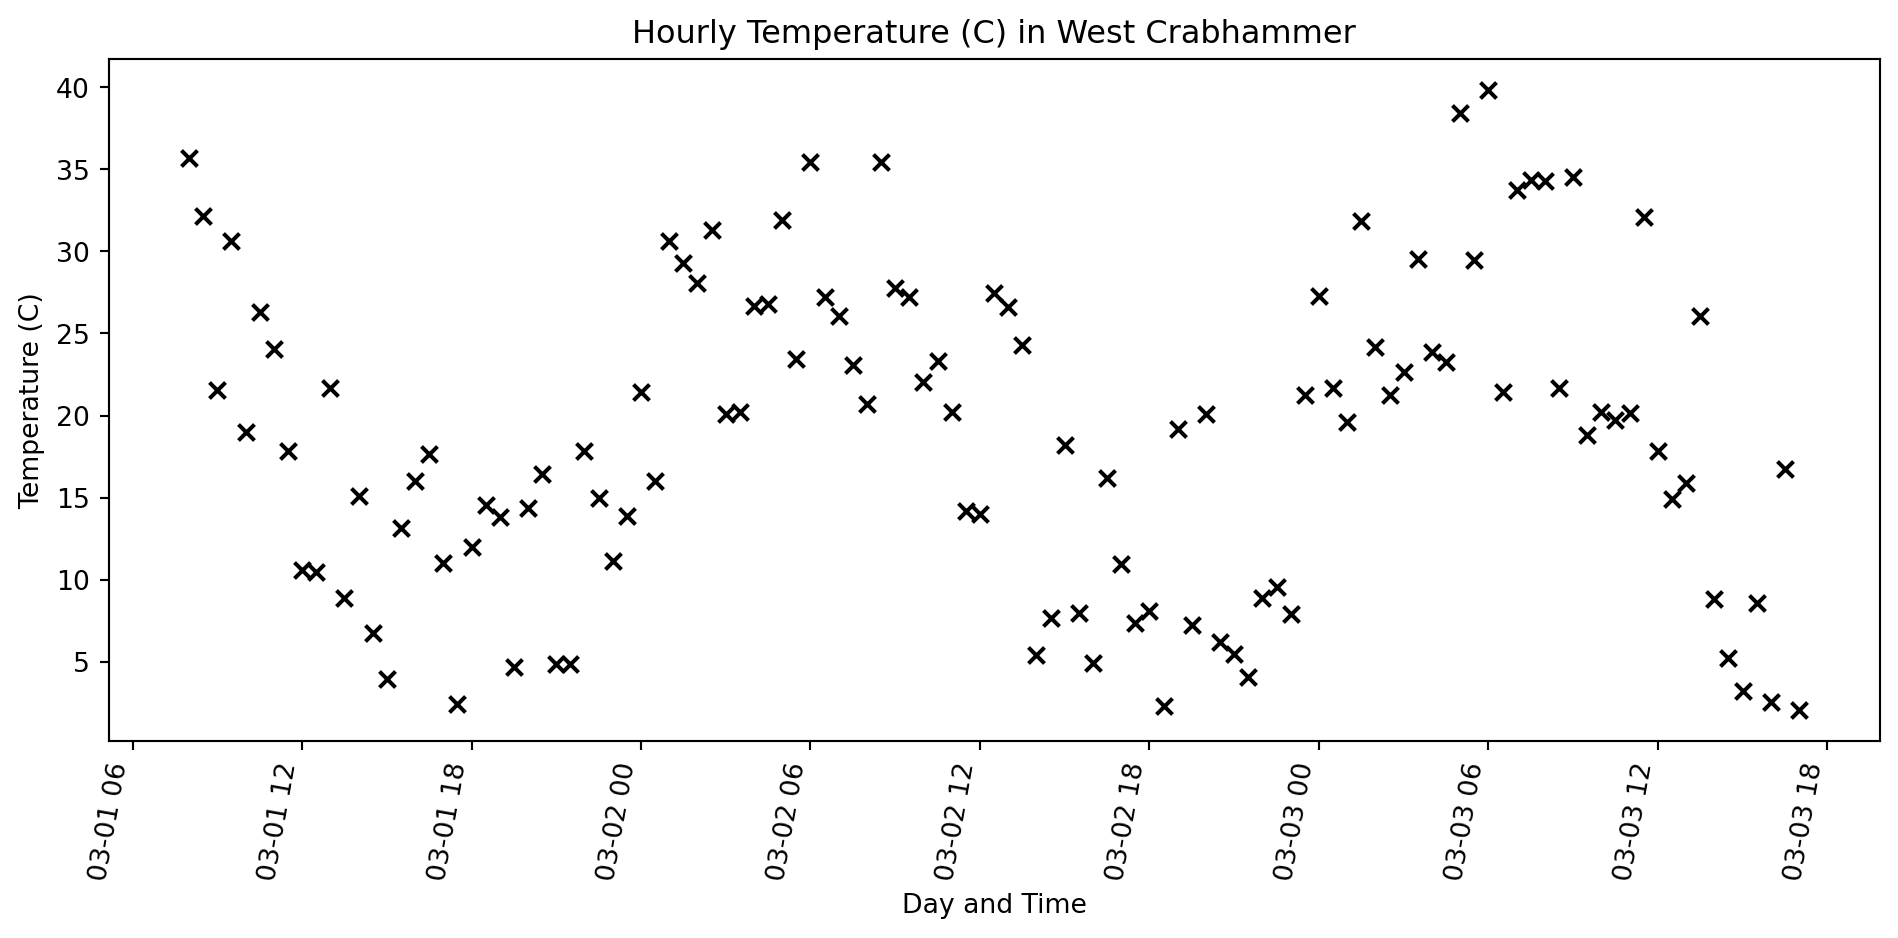
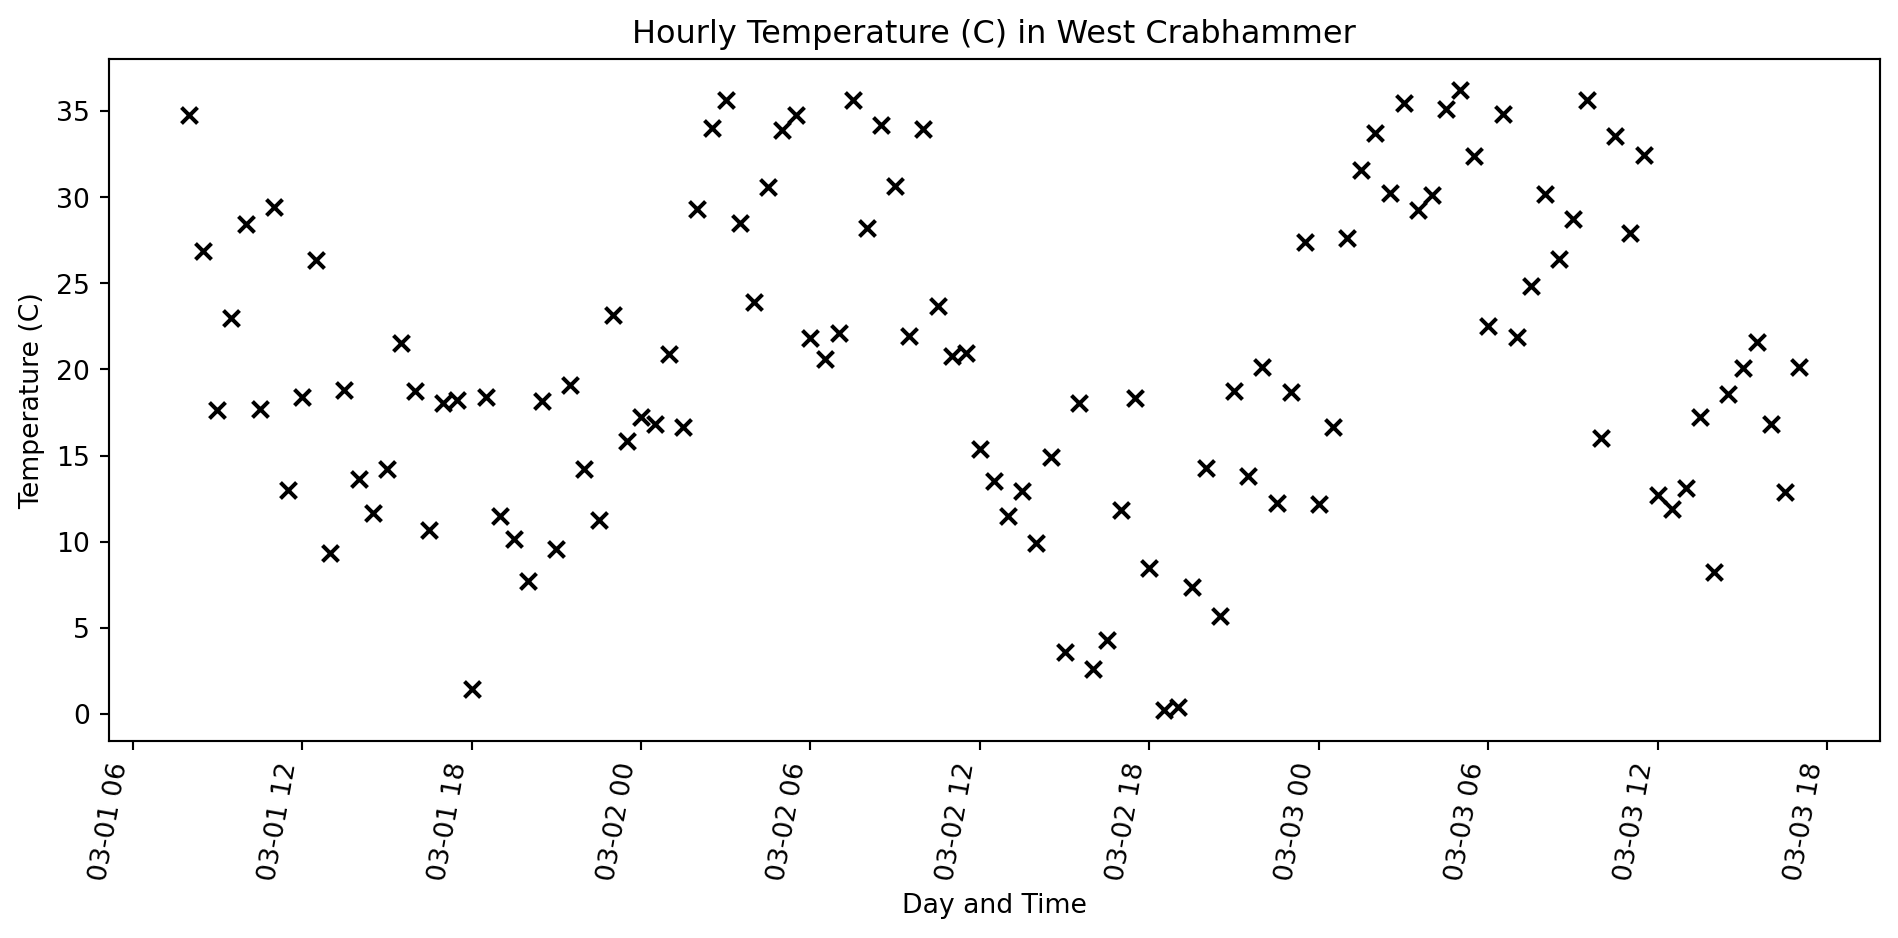
back to reveal

diff --git a/docs/python_geospatial_basics.html b/docs/python_geospatial_basics.html
@@ -204,17 +204,17 @@
 <section id="introducing-python" class="title-slide slide level1 center">
 <h1>Introducing Python</h1>
 <ul>
-<li class="fragment">It allows for more flexibility than a GUI based GIS program.</li>
-<li class="fragment">Other GIS applications (e.g.&nbsp;QGIS, ArcGIS, postGIS) often have a Python interface.</li>
-<li class="fragment">generally a widely used language.</li>
+<li>It allows for more flexibility than a GUI based GIS program.</li>
+<li>Other GIS applications (e.g.&nbsp;QGIS, ArcGIS, postGIS) often have a Python interface.</li>
+<li>generally a widely used language.</li>
 </ul>
 </section>
 <section id="environment" class="slide level2 scrollable smaller non-incremental">
 <h2>Environment</h2>
 <p>Before we get started we need to set up a Python environment in which to work. We will be using Anaconda for this. It <em>should</em> already be installed on the lab computers. If you are using your own computer</p>
 <ul>
-<li class="fragment">Download the environment.yml</li>
-<li class="fragment">If you are working on a lab computer In the start menu search for Anaconda. Open an Anaconda Powershell. (on linux or mac with Anconda or miniconda or Mamba installed just open a terminal)(If you are installing on your own computer I recommend <a href="https://mamba.readthedocs.io/en/latest/installation/mamba-installation.html">Mamba</a>)</li>
+<li>Download the environment.yml</li>
+<li>If you are working on a lab computer In the start menu search for Anaconda. Open an Anaconda Powershell. (on linux or mac with Anconda or miniconda or Mamba installed just open a terminal)(If you are installing on your own computer I recommend <a href="https://mamba.readthedocs.io/en/latest/installation/mamba-installation.html">Mamba</a>)</li>
 </ul>
 <div class="sourceCode" id="cb1"><pre class="sourceCode numberSource {bash} number-lines code-with-copy"><code class="sourceCode"><span id="cb1-1"><a></a>cd ~</span>
 <span id="cb1-2"><a></a>mkdir geog441</span>
@@ -293,7 +293,7 @@
 <section id="basic-numbers" class="slide level2">
 <h2>Basic Numbers</h2>
 <p>Floats and Ints don’t do anything all that surprising</p>
-<div id="768231c3" class="cell columns column-output-location" data-execution_count="1">
+<div id="cbb643d2" class="cell columns column-output-location" data-execution_count="1">
 <div class="column">
 <div class="sourceCode cell-code" id="cb5"><pre class="sourceCode numberSource python number-lines code-with-copy"><code class="sourceCode python"><span id="cb5-1"><a></a>a <span class="op">=</span> <span class="dv">2</span> <span class="op">+</span> <span class="dv">2</span></span>
 <span id="cb5-2"><a></a>b <span class="op">=</span> <span class="fl">2.0</span> <span class="op">+</span> <span class="fl">2.0</span></span>
@@ -322,7 +322,7 @@ and 5 % 4 is 1</code></pre>
 <section id="sequences" class="slide level2">
 <h2>Sequences</h2>
 <p>Lists, tuples, and strings ae all sequences</p>
-<div id="444089a6" class="cell columns column-output-location" data-execution_count="2">
+<div id="1bc02e4a" class="cell columns column-output-location" data-execution_count="2">
 <div class="column">
 <div class="sourceCode cell-code" id="cb7"><pre class="sourceCode numberSource python number-lines code-with-copy"><code class="sourceCode python"><span id="cb7-1"><a></a><span class="co"># a list</span></span>
 <span id="cb7-2"><a></a>a_list <span class="op">=</span> [<span class="dv">1</span>, <span class="dv">2</span>, <span class="dv">3</span>, <span class="dv">4</span>, <span class="dv">5</span>, <span class="dv">6</span>, <span class="dv">7</span>, <span class="dv">8</span>, <span class="dv">9</span>]</span>
@@ -367,7 +367,7 @@ neushorn?</code></pre>
 <a href="https://labex.io/tutorials/python-how-to-manipulate-list-sequences-in-python-419858">Sequences tutorial</a><br>
 <a href="https://www.youtube.com/watch?v=n3KMrwmq_94">Sequence tutorial as video</a></p>
 <p>The key difference is that tuples are immutable.</p>
-<div id="62340def" class="cell columns column-output-location" data-execution_count="3">
+<div id="4298bce9" class="cell columns column-output-location" data-execution_count="3">
 <div class="column">
 <div class="sourceCode cell-code" id="cb9"><pre class="sourceCode numberSource python number-lines code-with-copy"><code class="sourceCode python"><span id="cb9-1"><a></a>a_list[<span class="dv">1</span>] <span class="op">=</span> <span class="dv">256</span></span>
 <span id="cb9-2"><a></a></span>
@@ -388,7 +388,7 @@ Cell <span class="ansi-green-fg">In[3], line 3</span>
 </section>
 <section id="dictionaries" class="slide level2">
 <h2>Dictionaries</h2>
-<div id="594b269a" class="cell columns column-output-location" data-execution_count="4">
+<div id="dc8e848a" class="cell columns column-output-location" data-execution_count="4">
 <div class="column">
 <div class="sourceCode cell-code" id="cb10"><pre class="sourceCode numberSource python number-lines code-with-copy"><code class="sourceCode python"><span id="cb10-1"><a></a>pets <span class="op">=</span> {<span class="st">'honden'</span>: <span class="dv">26</span>, <span class="st">'katten'</span>: <span class="dv">100</span>}</span>
 <span id="cb10-2"><a></a></span>
@@ -407,7 +407,7 @@ Cell <span class="ansi-green-fg">In[3], line 3</span>
 </section>
 <section id="iterating" class="slide level2">
 <h2>Iterating</h2>
-<div id="ebda9f4b" class="cell columns column-output-location" data-execution_count="5">
+<div id="772af0ed" class="cell columns column-output-location" data-execution_count="5">
 <div class="column">
 <div class="sourceCode cell-code" id="cb12"><pre class="sourceCode numberSource python number-lines code-with-copy"><code class="sourceCode python"><span id="cb12-1"><a></a>a <span class="op">=</span> [<span class="dv">1</span>, <span class="dv">2</span>, <span class="dv">3</span>, <span class="dv">4</span>, <span class="dv">5</span>, <span class="dv">6</span>, <span class="dv">7</span>, <span class="dv">8</span>, <span class="dv">9</span>]</span>
 <span id="cb12-2"><a></a></span>
@@ -433,12 +433,12 @@ is the same as
 <section id="functions" class="slide level2 scrollable smaller non-incremental">
 <h2>Functions</h2>
 <ul>
-<li class="fragment">Defined with def</li>
-<li class="fragment">Can take arguments</li>
-<li class="fragment">can return something</li>
-<li class="fragment">have there own scope</li>
+<li>Defined with def</li>
+<li>Can take arguments</li>
+<li>can return something</li>
+<li>have there own scope</li>
 </ul>
-<div id="bf39526b" class="cell columns column-output-location" data-execution_count="6">
+<div id="2cc21293" class="cell columns column-output-location" data-execution_count="6">
 <div class="column">
 <div class="sourceCode cell-code" id="cb14"><pre class="sourceCode numberSource python number-lines code-with-copy"><code class="sourceCode python"><span id="cb14-1"><a></a><span class="im">import</span> numpy <span class="im">as</span> np</span>
 <span id="cb14-2"><a></a></span>
@@ -460,7 +460,7 @@ is the same as
 </div>
 </div></div>
 <p>They do nat have to have arguments or return stuff.</p>
-<div id="a70376bf" class="cell columns column-output-location" data-execution_count="7">
+<div id="1dca45d6" class="cell columns column-output-location" data-execution_count="7">
 <div class="column">
 <div class="sourceCode cell-code" id="cb16"><pre class="sourceCode numberSource python number-lines code-with-copy"><code class="sourceCode python"><span id="cb16-1"><a></a><span class="kw">def</span> complain():</span>
 <span id="cb16-2"><a></a>  <span class="bu">print</span>(<span class="st">'This is boring!</span><span class="ch">\n</span><span class="st">when will we get to the GIS stuff.</span><span class="ch">\n\U0001F620\U0001F620\U0001F620\n\n</span><span class="st">Soon! Bear with me.'</span>)</span>
@@ -479,7 +479,7 @@ Soon! Bear with me.</code></pre>
 <section id="pandas-dataframe" class="slide level2 smaller scrollable">
 <h2>Pandas DataFrame</h2>
 <p>DataFrames hold tabular data</p>
-<div id="f4cd0a66" class="cell" data-execution_count="8">
+<div id="15ac6cde" class="cell" data-execution_count="8">
 <div class="sourceCode cell-code" id="cb18"><pre class="sourceCode numberSource python number-lines code-with-copy"><code class="sourceCode python"><span id="cb18-1"><a></a><span class="im">from</span> datetime <span class="im">import</span> datetime, timedelta</span>
 <span id="cb18-2"><a></a><span class="im">from</span> random <span class="im">import</span> uniform</span>
 <span id="cb18-3"><a></a><span class="im">import</span> matplotlib.pyplot <span class="im">as</span> plt</span>
@@ -542,27 +542,27 @@ Soon! Bear with me.</code></pre>
 <tr class="odd">
 <td data-quarto-table-cell-role="th">0</td>
 <td>2025-03-01 08:00:00</td>
-<td>35.672420</td>
+<td>34.781275</td>
 </tr>
 <tr class="even">
 <td data-quarto-table-cell-role="th">1</td>
 <td>2025-03-01 08:30:00</td>
-<td>32.123925</td>
+<td>26.894034</td>
 </tr>
 <tr class="odd">
 <td data-quarto-table-cell-role="th">2</td>
 <td>2025-03-01 09:00:00</td>
-<td>21.580947</td>
+<td>17.653071</td>
 </tr>
 <tr class="even">
 <td data-quarto-table-cell-role="th">3</td>
 <td>2025-03-01 09:30:00</td>
-<td>30.641976</td>
+<td>22.972908</td>
 </tr>
 <tr class="odd">
 <td data-quarto-table-cell-role="th">4</td>
 <td>2025-03-01 10:00:00</td>
-<td>18.976921</td>
+<td>28.414457</td>
 </tr>
 </tbody>
 </table>
@@ -573,7 +573,7 @@ Soon! Bear with me.</code></pre>
 </section>
 <section id="pandas-dataframe-cont." class="slide level2 scrollable">
 <h2>Pandas DataFrame Cont.</h2>
-<div id="faf2e256" class="cell columns column-output-location" data-execution_count="9">
+<div id="065dc6e4" class="cell columns column-output-location" data-execution_count="9">
 <div class="column">
 <div class="sourceCode cell-code" id="cb19"><pre class="sourceCode numberSource python number-lines code-with-copy"><code class="sourceCode python"><span id="cb19-1"><a></a>fig, ax <span class="op">=</span> plt.subplots()</span>
 <span id="cb19-2"><a></a></span>
@@ -602,17 +602,17 @@ Soon! Bear with me.</code></pre>
 </div>
 </div>
 </div></div>
-<div id="39133a08" class="cell columns column-output-location" data-execution_count="10">
+<div id="2258fa06" class="cell columns column-output-location" data-execution_count="10">
 <div class="column">
 <div class="sourceCode cell-code" id="cb20"><pre class="sourceCode numberSource python number-lines code-with-copy"><code class="sourceCode python"><span id="cb20-1"><a></a><span class="co"># get the mean temperature over the timeseries</span></span>
 <span id="cb20-2"><a></a>df[<span class="st">'T (C)'</span>].mean()</span></code><button title="Copy to Clipboard" class="code-copy-button"><i class="bi"></i></button></pre></div>
 </div><div class="column">
 <div class="cell-output cell-output-display" data-execution_count="10">
-<pre><code>np.float64(18.735527538614743)</code></pre>
+<pre><code>np.float64(20.26840583484446)</code></pre>
 </div>
 </div></div>
 <p>When there are no spaces in a column name you can access the column as an attribute of the datafame.</p>
-<div id="122f4e71" class="cell columns column-output-location" data-execution_count="11">
+<div id="8ea14ae3" class="cell columns column-output-location" data-execution_count="11">
 <div class="column">
 <div class="sourceCode cell-code" id="cb22"><pre class="sourceCode numberSource python number-lines code-with-copy"><code class="sourceCode python"><span id="cb22-1"><a></a><span class="co"># get the number of time stamps in the date_time column</span></span>
 <span id="cb22-2"><a></a>df.date_time.count()</span></code><button title="Copy to Clipboard" class="code-copy-button"><i class="bi"></i></button></pre></div>
@@ -628,17 +628,17 @@ Soon! Bear with me.</code></pre>
 <p>If you are choosing Python as you language in this course (and what we have covered today is not a peace of cake for you already), create a jupyter notebook and do the following:</p>
 <div class="{non-incremental}">
 <ul>
-<li class="fragment">Download the results from the class survey from <a href="https://docs.google.com/spreadsheets/d/17qg3d2N1WmE3cIoz5SGpP2AGesVNmaZTwu4ljIRii4U/edit?usp=sharing">here</a> as a csv file.</li>
-<li class="fragment">Read the csv into a Pandas DataFrame (Hint: use the <code>read_csv()</code> method).</li>
-<li class="fragment">The headers are a mess! Change the column names to be reasonable.
+<li>Download the results from the class survey from <a href="https://docs.google.com/spreadsheets/d/17qg3d2N1WmE3cIoz5SGpP2AGesVNmaZTwu4ljIRii4U/edit?usp=sharing">here</a> as a csv file.</li>
+<li>Read the csv into a Pandas DataFrame (Hint: use the <code>read_csv()</code> method).</li>
+<li>The headers are a mess! Change the column names to be reasonable.
 <ul>
-<li class="fragment">Hint: <em>columns</em> is a mutable attribute of the dataframe so <code>df.columns = some_list_of_the_correct_length</code> will assign new column names.</li>
+<li>Hint: <em>columns</em> is a mutable attribute of the dataframe so <code>df.columns = some_list_of_the_correct_length</code> will assign new column names.</li>
 </ul></li>
 </ul>
 </div>
 <p>If you are only going the R route, do the above, but in R. (Hints Below.)</p>
 <ul>
-<li class="fragment">data &lt;- read.csv(“my_data.csv”)</li>
+<li>data &lt;- read.csv(“my_data.csv”)</li>
 </ul>
 </section></section>
 <section>
@@ -653,32 +653,32 @@ Soon! Bear with me.</code></pre>
 <section id="vector-data" class="slide level2 smaller">
 <h2>Vector Data</h2>
 <ul>
-<li class="fragment">Most often we will interact with vector data using <a href="https://geopandas.org/en/stable/">GeoPandas</a>
+<li>Most often we will interact with vector data using <a href="https://geopandas.org/en/stable/">GeoPandas</a>
 <ul>
-<li class="fragment">GeoPandas is an extension of <a href="https://pandas.pydata.org/">Pandas</a>.</li>
-<li class="fragment">It uses Fiona, which in-turn relies on <a href="https://gdal.org/en/stable/">GDAL and OGR</a>, to read and write.</li>
-<li class="fragment">Vector data is handled by the <a href="http://toblerity.org/shapely/manual.html">Shapely</a> module, which relies on <a href="https://libgeos.org/">GEOS</a>.</li>
-<li class="fragment">GEOS implements the <a href="https://en.wikipedia.org/wiki/Open_Geospatial_Consortium">OGC</a> <a href="https://en.wikipedia.org/wiki/Simple_Features">Simple Features geometry</a></li>
+<li>GeoPandas is an extension of <a href="https://pandas.pydata.org/">Pandas</a>.</li>
+<li>It uses Fiona, which in-turn relies on <a href="https://gdal.org/en/stable/">GDAL and OGR</a>, to read and write.</li>
+<li>Vector data is handled by the <a href="http://toblerity.org/shapely/manual.html">Shapely</a> module, which relies on <a href="https://libgeos.org/">GEOS</a>.</li>
+<li>GEOS implements the <a href="https://en.wikipedia.org/wiki/Open_Geospatial_Consortium">OGC</a> <a href="https://en.wikipedia.org/wiki/Simple_Features">Simple Features geometry</a></li>
 </ul></li>
-<li class="fragment">Projections are managed by <a href="https://pyproj4.github.io/pyproj/stable/">pyproj</a> which is built upon <a href="https://proj.org/en/stable/">PROJ</a></li>
+<li>Projections are managed by <a href="https://pyproj4.github.io/pyproj/stable/">pyproj</a> which is built upon <a href="https://proj.org/en/stable/">PROJ</a></li>
 </ul>
 </section>
 <section id="shapely" class="slide level2 smaller">
 <h2>Shapely</h2>
 <ul>
-<li class="fragment">Shapely Geometric Objects consist of coordinate tuples:
+<li>Shapely Geometric Objects consist of coordinate tuples:
 <ul>
-<li class="fragment">Point - (x, y) or three dimensional (x, y, z), e.g.&nbsp;<code>Point(5.2, 52.1)</code></li>
-<li class="fragment">LineString - List if coordinates of vertices, e.g.&nbsp;<code>LineString([(0, 0), (1, 2)])</code></li>
-<li class="fragment">Polygon - Basically a closed linestring, e.g.&nbsp;<code>Polygon(((0., 0.), (0., 1.), (1., 1.), (1., 0.), (0., 0.)))</code></li>
-<li class="fragment">Notice that the first and last coord of the Polygon are the same.</li>
-<li class="fragment">More on <a href="https://shapely.readthedocs.io/en/stable/geometry.html">Shapely geometries</a></li>
+<li>Point - (x, y) or three dimensional (x, y, z), e.g.&nbsp;<code>Point(5.2, 52.1)</code></li>
+<li>LineString - List if coordinates of vertices, e.g.&nbsp;<code>LineString([(0, 0), (1, 2)])</code></li>
+<li>Polygon - Basically a closed linestring, e.g.&nbsp;<code>Polygon(((0., 0.), (0., 1.), (1., 1.), (1., 0.), (0., 0.)))</code></li>
+<li>Notice that the first and last coord of the Polygon are the same.</li>
+<li>More on <a href="https://shapely.readthedocs.io/en/stable/geometry.html">Shapely geometries</a></li>
 </ul></li>
 </ul>
 </section>
 <section id="polygon" class="slide level2">
 <h2>Polygon</h2>
-<div id="ef6383b5" class="cell columns column-output-location" data-execution_count="12">
+<div id="d089a770" class="cell columns column-output-location" data-execution_count="12">
 <div class="column">
 <div class="sourceCode cell-code" id="cb24"><pre class="sourceCode numberSource python number-lines code-with-copy"><code class="sourceCode python"><span id="cb24-1"><a></a><span class="im">from</span> shapely <span class="im">import</span> Polygon</span>
 <span id="cb24-2"><a></a></span>
@@ -705,7 +705,7 @@ Soon! Bear with me.</code></pre>
 <section id="reading-files" class="slide level2">
 <h2>Reading Files</h2>
 <p>Here we will read a geojson using the <code>read_file</code> method.</p>
-<div id="13ca3ae2" class="cell columns column-output-location" data-execution_count="13">
+<div id="f50a9615" class="cell columns column-output-location" data-execution_count="13">
 <div class="column">
 <div class="sourceCode cell-code" id="cb26"><pre class="sourceCode numberSource python number-lines code-with-copy"><code class="sourceCode python"><span id="cb26-1"><a></a><span class="im">from</span> pathlib <span class="im">import</span> Path</span>
 <span id="cb26-2"><a></a><span class="im">import</span> geopandas <span class="im">as</span> gpd</span>
